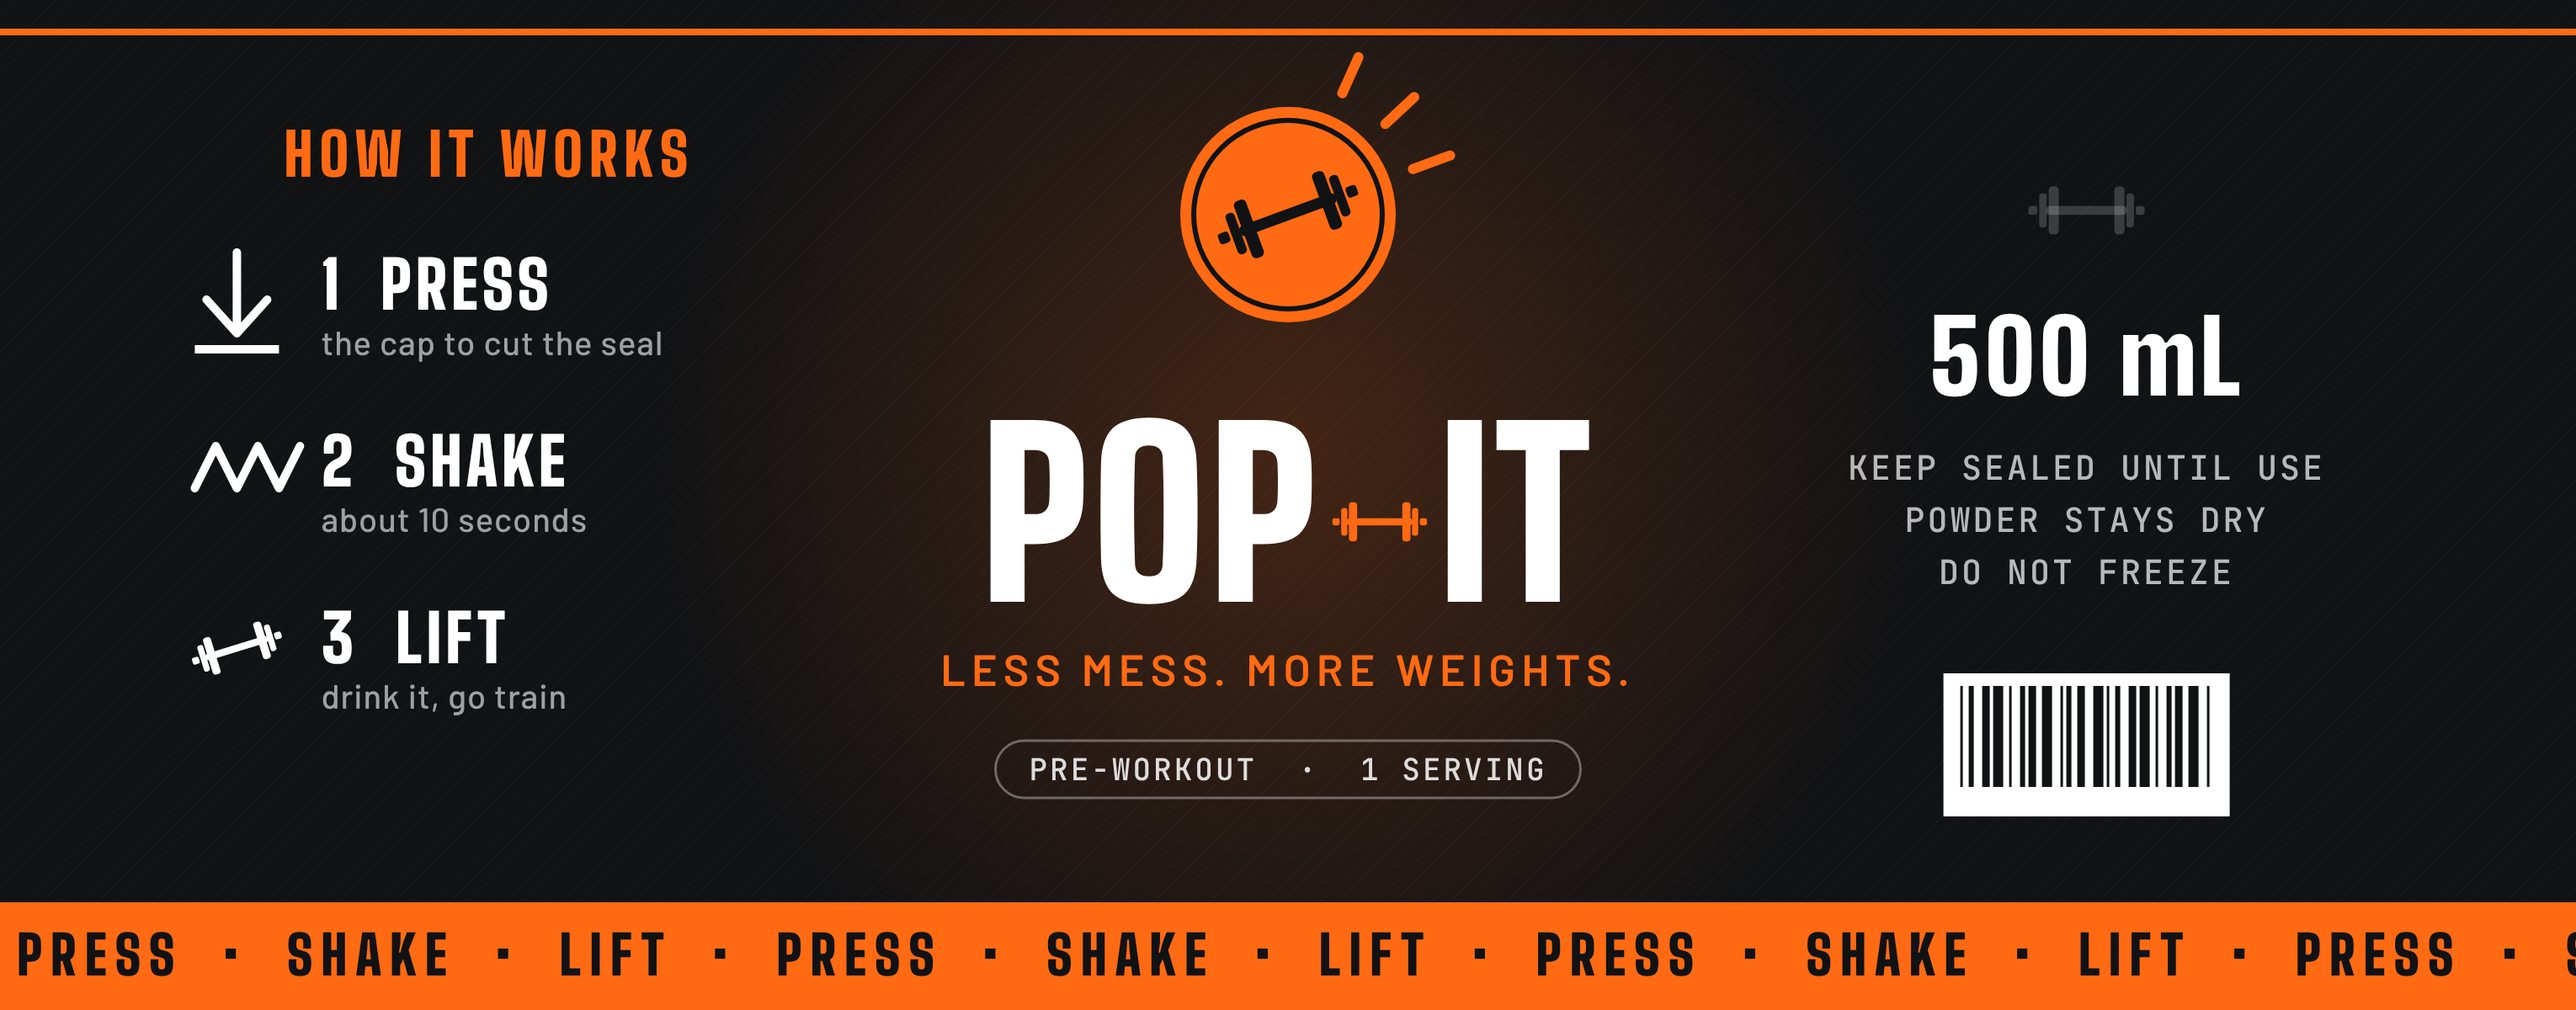
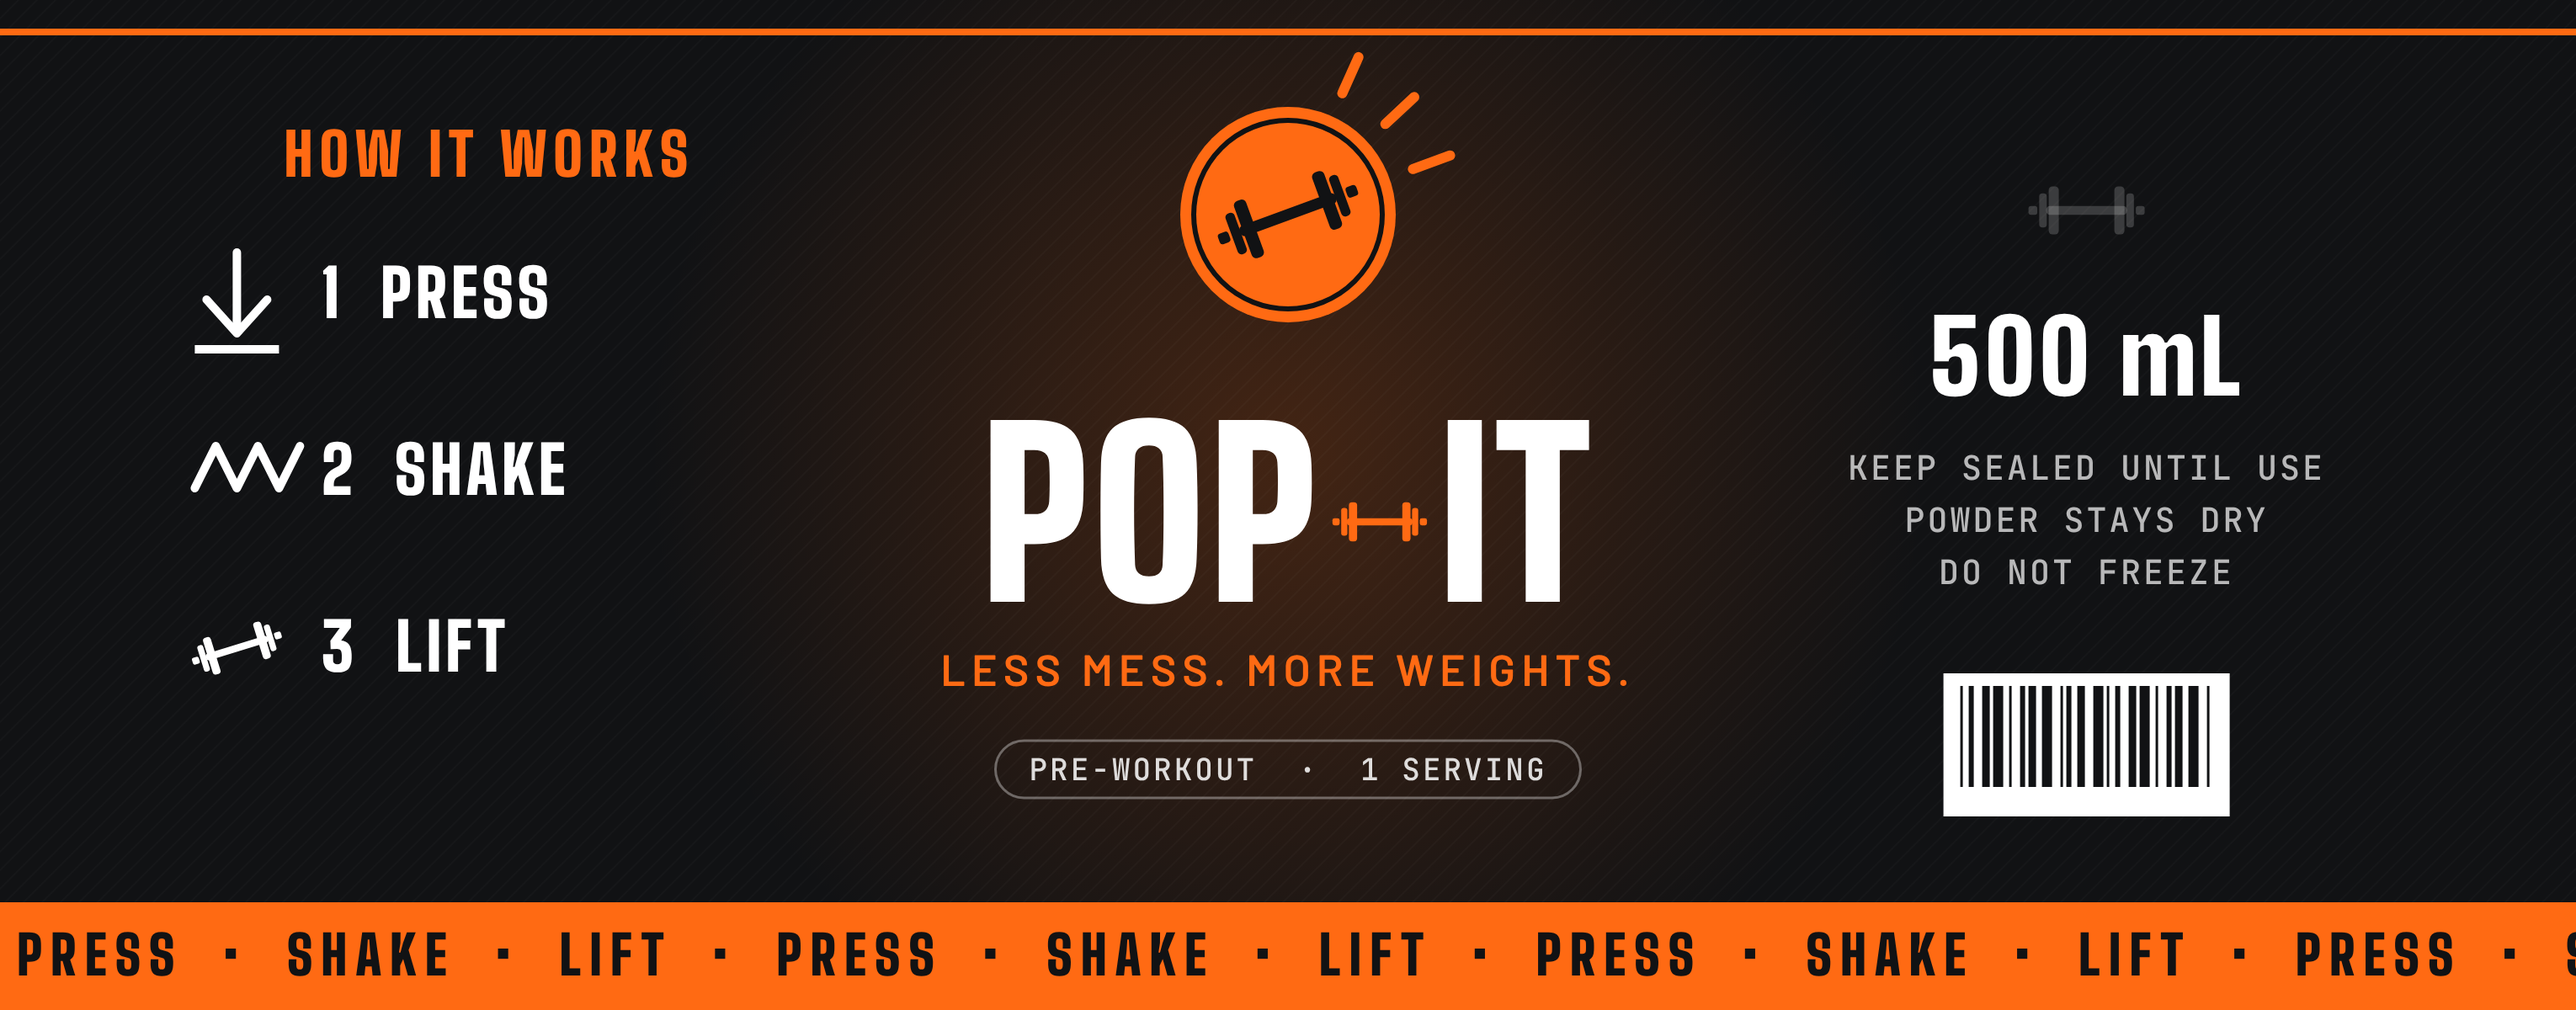
Label: drop the small print under the how-it-works steps
Claude-Session: https://claude.ai/code/session_01HKgMdUemj1D27z5L81zJxk

Changed region(s): [[0.1242, 0.2467, 0.2484, 0.37], [0.1242, 0.5858, 0.2173, 0.7092], [0.1242, 0.4317, 0.2173, 0.5242]]

diff --git a/bottle-cap-prototype/viewer.html b/bottle-cap-prototype/viewer.html
@@ -333,15 +333,14 @@ code { font-family: var(--mono); font-size: 12px; color: var(--fg); }
     // --- left side: how it works, with icons ---
     const lx = W * 0.19;
     g.fillStyle = ORANGE; g.font = `900 70px ${DISPLAY}`; sp('8px'); g.fillText('HOW IT WORKS', lx, 210);
-    const steps = [['PRESS', 'the cap to cut the seal'], ['SHAKE', 'about 10 seconds'], ['LIFT', 'drink it, go train']];
-    steps.forEach(([t, d], k) => {
+    const steps = ['PRESS', 'SHAKE', 'LIFT'];
+    steps.forEach((t, k) => {
       const y = 360 + k * 210, ix = lx - 300;
       g.strokeStyle = '#fff'; g.fillStyle = '#fff'; g.lineWidth = 10; g.lineCap = 'round'; g.lineJoin = 'round';
       if (k === 0) { g.beginPath(); g.moveTo(ix, y - 60); g.lineTo(ix, y + 30); g.stroke(); g.beginPath(); g.moveTo(ix - 36, y - 4); g.lineTo(ix, y + 36); g.lineTo(ix + 36, y - 4); g.stroke(); g.fillRect(ix - 50, y + 50, 100, 10); }
       else if (k === 1) { g.beginPath(); g.moveTo(ix - 50, y + 10); for (let q = 0; q < 5; q++) g.lineTo(ix - 50 + 25 * (q + 1), y + (q % 2 ? 10 : -40)); g.stroke(); }
       else dumbbell(g, ix, y - 10, 120, '#fff', -0.3);
-      g.textAlign = 'left'; g.font = `900 78px ${DISPLAY}`; sp('5px'); g.fillStyle = '#fff'; g.fillText(`${k + 1}  ${t}`, lx - 200, y + 8);
-      g.font = `500 40px Barlow, Arial, sans-serif`; sp('1px'); g.fillStyle = 'rgba(255,255,255,.6)'; g.fillText(d, lx - 200, y + 62);
+      g.textAlign = 'left'; g.font = `900 78px ${DISPLAY}`; sp('5px'); g.fillStyle = '#fff'; g.fillText(`${k + 1}  ${t}`, lx - 200, y + 18);
       g.textAlign = 'center';
     });
 
